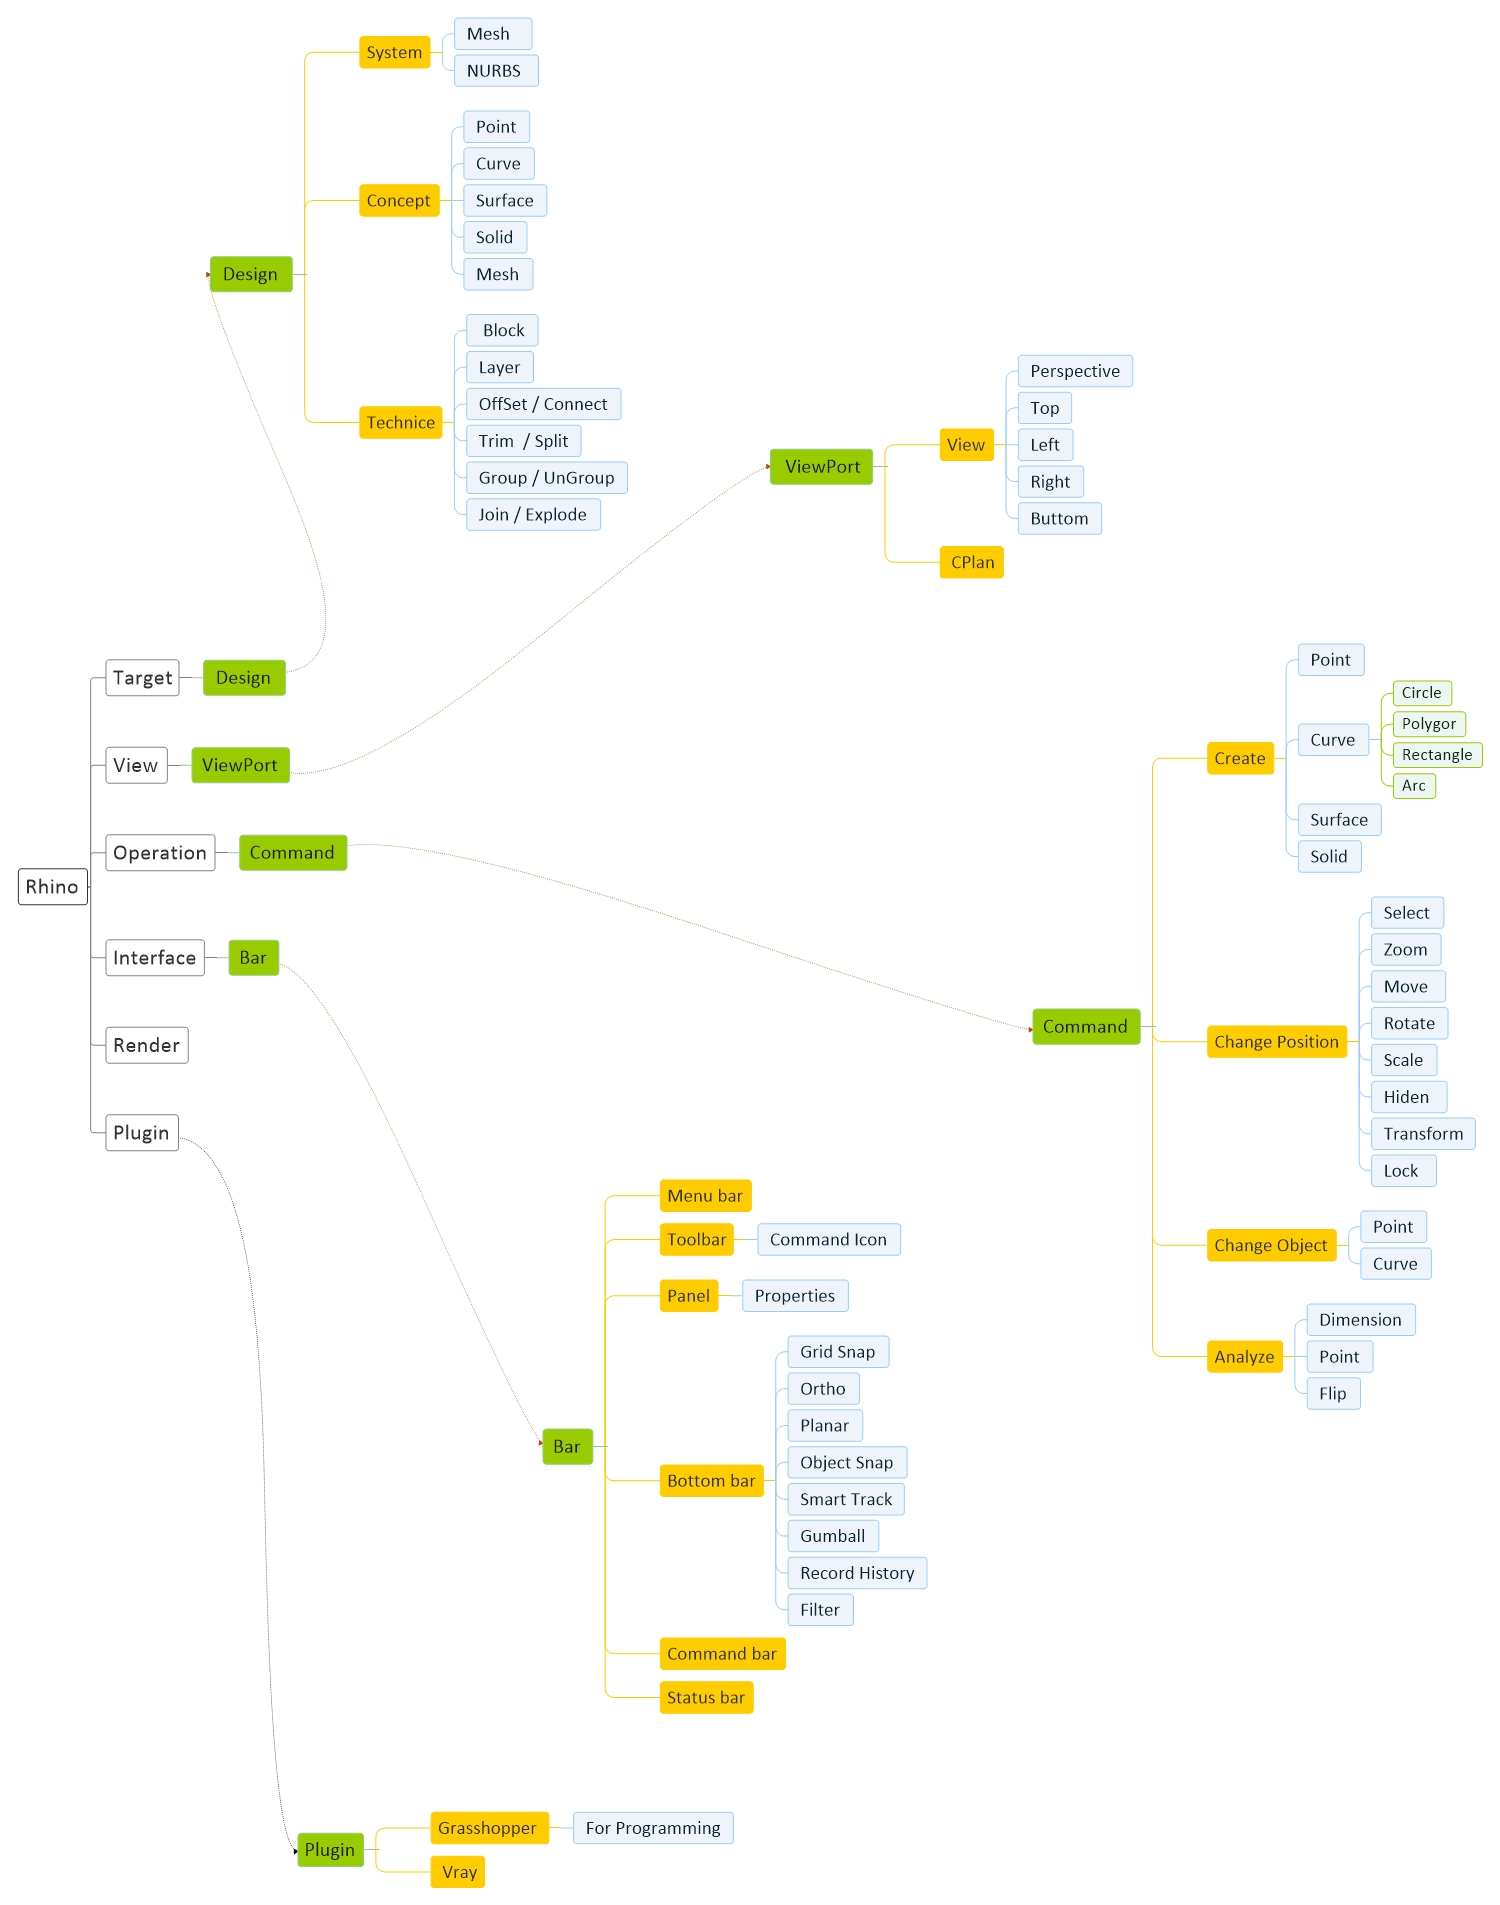
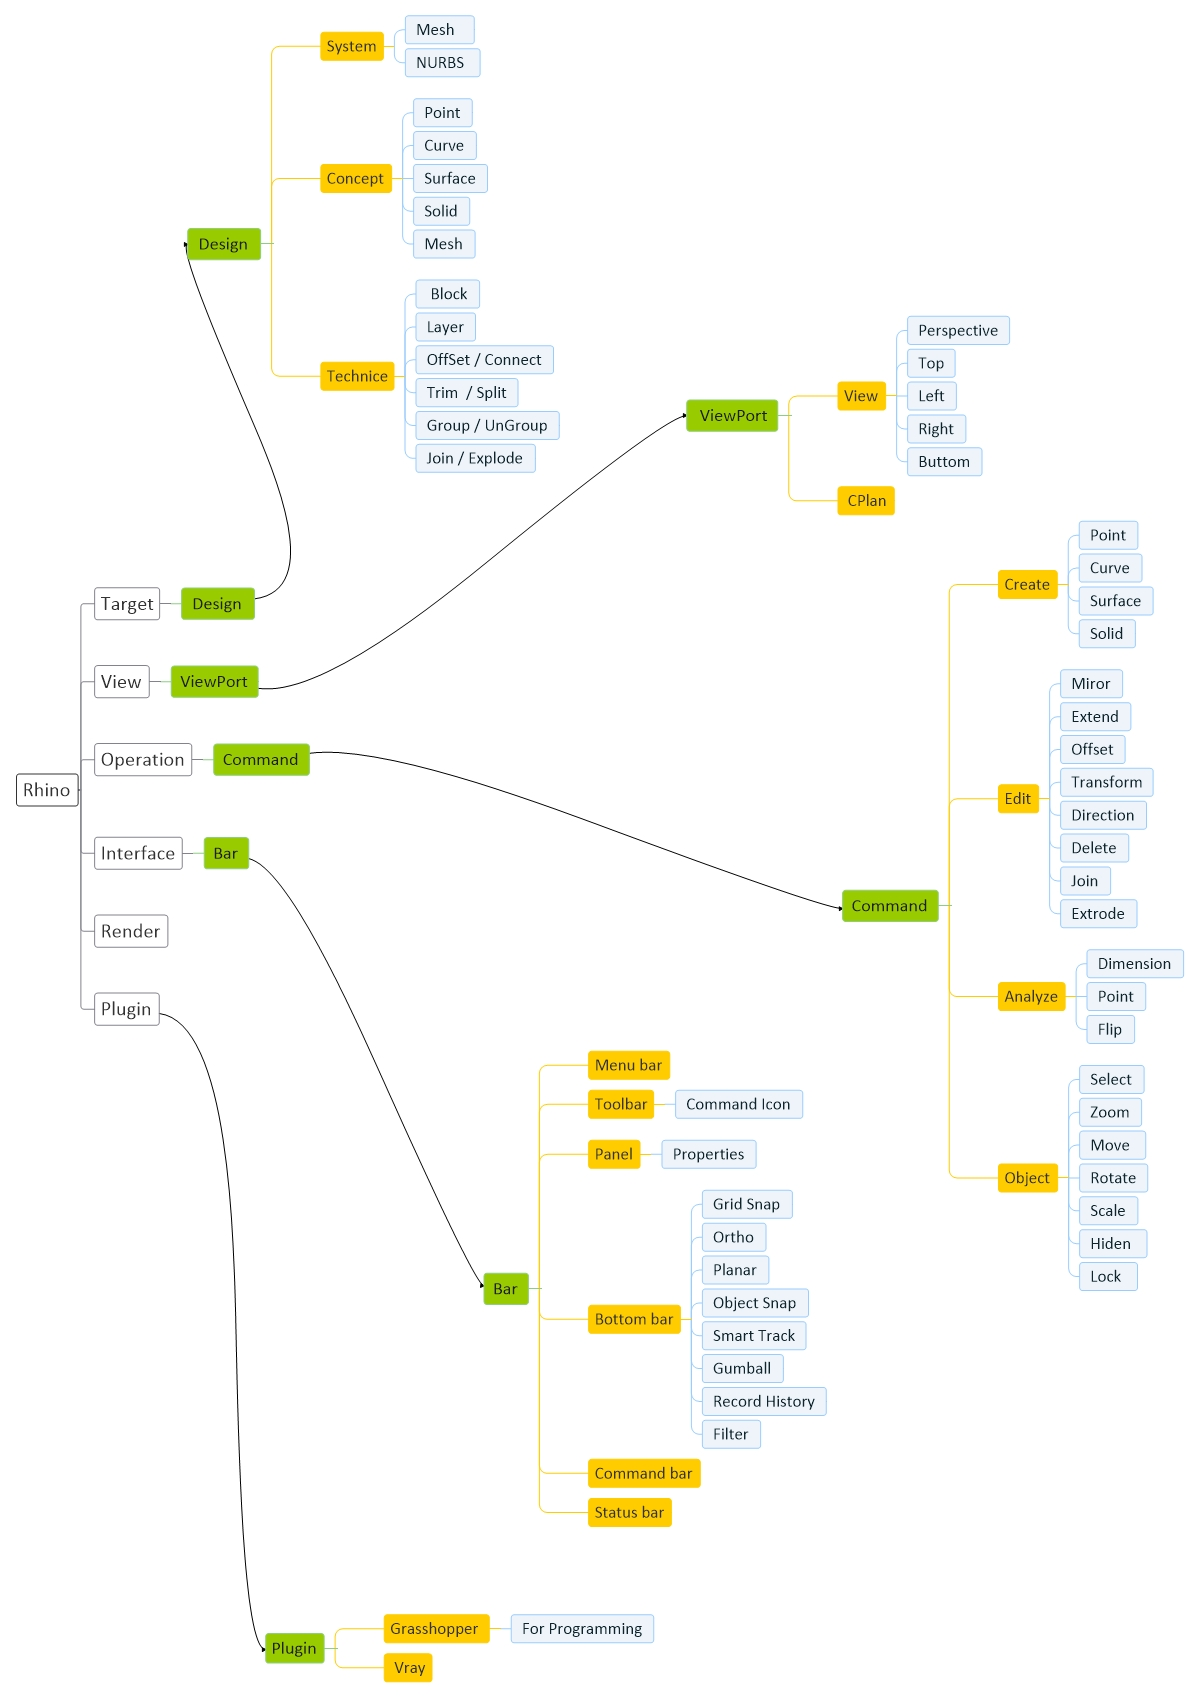
Add files via upload

diff --git a/Rhino/Rhino-Command-ChangeObject.md b/Rhino/Rhino-Command-ChangeObject.md
@@ -7,7 +7,7 @@
 </style>
 
 # [<span style="color:black;">Rhino Command change Object</span>](Rhino.md)
-[Basic](Rhino-Basic.md) | [Interface](Rhino-Interface.md) | [CMD(Create)](Rhino-Command-Create.md) | [CMD(Change Position)](Rhino-Command-ChangePosition.md) | [CMD(Change Object)](Rhino-Command-ChangeObject.md) | [CMD(Analyze)](Rhino-Command-Analyze.md)
+[Basic](Rhino-Basic.md) | [Interface](Rhino-Interface.md) | [Create](Rhino-Command-Create.md) | [Edit](Rhino-Command-ChangeObject.md) | [Analyze](Rhino-Command-Analyze.md) | [Object](Rhino-Command-ChangePosition.md)
 <div class="md1"></div>
 
 
@@ -19,7 +19,13 @@
 <tr align="center"><td>InsertKink</td><td>Insert kink</td><td><a href="http://docs.mcneel.com/rhino/5/help/en-us/commands/insertkink.htm" target="_blank">adds kinks to a curve or surface</a></td></tr>
 </tbody></table>
 
-<div class="md2"></div>
+
+
+
+<div class="md0"></div>
+
+
+
 
 ## Curve
 <table><tbody>
@@ -28,9 +34,17 @@
 <tr align="center"><td>FilletCorners</td><td>Fillet corners</td><td><a href="http://docs.mcneel.com/rhino/5/help/en-us/commands/filletcorners.htm" target="_blank">rounds the corners of polycurves and polylines</a></td></tr>
 <tr align="center"><td>Chamfer</td><td>Chamfer curves</td><td><a href="http://docs.mcneel.com/rhino/5/help/en-us/commands/chamfer.htm" target="_blank">creates a line segment between two input curves</a></td></tr>
 <tr align="center"><td>Blend</td><td>Quick curve blend</td><td><a href="http://docs.mcneel.com/rhino/5/help/en-us/commands/blend.htm"> creates a curve that blends between two curves</a></td></tr>
+<tr align="center"><td>ExtrudeCrv</td><td>Extrude closed planar curve</td><td><a href="http://docs.mcneel.com/rhino/5/help/en-us/commands/extrudecrv.htm" target="_blank">creates a surface by tracing the path of a curve in a straight line</a></td></tr>
+<tr align="center"><td>Offset</td><td>Offset curve</td><td><a href="http://docs.mcneel.com/rhino/5/help/en-us/commands/offset.htm" target="_blank">copies a curve so that all locations on the copied curve are a specified distance from the original curve</a></td></tr>
 </tbody></table>
 
-<div class="md2"></div>
+
+
+
+<div class="md0"></div>
+
+
+
 
 ## Extend
 <table><tbody>
@@ -40,7 +54,13 @@
 <tr align="center"><td>111</td><td>2222</td><td><a href="33333" target="_blank">444</a></td></tr>
 </tbody></table>
 
-<div class="md2"></div>
+
+
+
+<div class="md0"></div>
+
+
+
 
 ## Direction
 <table><tbody>
@@ -51,7 +71,13 @@
 <tr align="center"><td>MatchCrvDir</td><td>Match curve directions</td><td><a href="http://docs.mcneel.com/rhino/5/help/en-us/commands/matchcrvdir.htm" target="_blank">changes the direction of selected curves</a></td></tr>
 </tbody></table>
 
-<div class="md2"></div>
+
+
+
+<div class="md0"></div>
+
+
+
 
 ## Delete
 <table><tbody>
@@ -62,3 +88,43 @@
 <tr align="center"><td>SubCrv</td><td>Sub curve</td><td><a href="http://docs.mcneel.com/rhino/5/help/en-us/commands/subcrv.htm" target="_blank">Shorten a curve to the new picked endpoints</a></td></tr>
 <tr align="center"><td>Trim</td><td>111</td><td><a href="1111" target="_blank">1111</a></td></tr>
 </tbody></table>
+
+
+
+
+<div class="md0"></div>
+
+
+
+
+## Surface 
+<table><tbody>
+<tr align="center"><td  bgcolor="D1ECCF">Command</td><td bgcolor="D1ECCF">Tooltip</td><td  bgcolor="D1ECCF">Explain</td></tr>
+<tr align="center"><td>ExtrudeSrf </td><td>Extrude surface</td><td><a href="http://docs.mcneel.com/rhino/5/help/en-us/commands/extrudesrf.htm" target="_blank">creates a solid by tracing the path of the surface edges in a straight line</a></td></tr>
+<tr align="center"><td>OffsetSrf </td><td>Offset Surface</td><td><a href="http://docs.mcneel.com/rhino/5/help/en-us/commands/offsetsrf.htm" target="_blank">copies a surface or polysurface so that locations</a></td></tr>
+</tbody></table>
+
+
+
+<div class="md0"></div>
+
+
+
+
+## Solid
+<table><tbody>
+<tr align="center"><td  bgcolor="D1ECCF">Command</td><td bgcolor="D1ECCF">Tooltip</td><td  bgcolor="D1ECCF">Explain</td></tr>
+<tr align="center"><td>ExtrudeCrv</td><td>Extrude closed planar curve</td><td><a href="http://docs.mcneel.com/rhino/5/help/en-us/commands/extrudecrv.htm" target="_blank">creates a surface by tracing the path of a curve in a straight line</a></td></tr>
+<tr align="center"><td>BooleanDifference</td><td>Boolean difference</td><td><a href="http://docs.mcneel.com/rhino/5/help/en-us/commands/booleandifference.htm" target="_blank">trims the shared areas of selected polysurfaces</a></td></tr>
+<tr align="center"><td>BooleanSplit</td><td>Boolean split</td><td><a href="http://docs.mcneel.com/rhino/5/help/en-us/commands/booleansplit.htm" target="_blank">splits shared areas of selected polysurfaces or surfaces</a></td></tr>
+<tr align="center"><td>ChamferEdge</td><td>Chamfer edges</td><td><a href="http://docs.mcneel.com/rhino/5/help/en-us/commands/chamferedge.htm" target="_blank">creates a ruled surface between selected polysurface edges with varying chamfer distances</a></td></tr>
+</tbody></table>
+
+
+
+
+<div class="md0"></div>
+
+
+
+

diff --git a/Rhino/Rhino-Command-ChangePosition.md b/Rhino/Rhino-Command-ChangePosition.md
@@ -7,27 +7,31 @@
 </style> 
 
 # [<span style="color:black;">Rhino Command Change Position</span>](Rhino.md)
-[Basic](Rhino-Basic.md) | [Interface](Rhino-Interface.md) | [CMD(Create)](Rhino-Command-Create.md) | [CMD(Change Position)](Rhino-Command-ChangePosition.md) | [CMD(Change Object)](Rhino-Command-ChangeObject.md) | [CMD(Analyze)](Rhino-Command-Analyze.md)
+[Basic](Rhino-Basic.md) | [Interface](Rhino-Interface.md) | [Create](Rhino-Command-Create.md) | [Edit](Rhino-Command-ChangeObject.md) | [Analyze](Rhino-Command-Analyze.md) | [Object](Rhino-Command-ChangePosition.md)
 <div class="md1"></div>
 
 
 
 
-## Select
+## Genaral
 <table><tbody>
 <tr align="center"><td  bgcolor="D1ECCF">Command</td><td bgcolor="D1ECCF">Tooltip</td><td  bgcolor="D1ECCF">Explain</td></tr>
-<tr align="center"><td>1</td><td>2</td><td>3</td></tr>
+<tr align="center"><td>Select</td><td>---</td><td><a href="---" target="_blank">---</a></td></tr>
+<tr align="center"><td>Zoom</td><td>---</td><td><a href="---" target="_blank">---</a></td></tr>
+<tr align="center"><td>Move</td><td>Move</td><td><a href="http://docs.mcneel.com/rhino/5/help/en-us/commands/move.htm" target="_blank">control mouse operation for selecting and dragging</a></td></tr>
+<tr align="center"><td>Rotate</td><td>Rotate</td><td><a href="http://docs.mcneel.com/rhino/5/help/en-us/commands/rotate.htm" target="_blank">rotates objects around an axis perpendicular to the current construction plane</a></td></tr>
+<tr align="center"><td>Scale</td><td>Scale</td><td><a href="http://docs.mcneel.com/rhino/5/help/en-us/commands/scale.htm" target="_blank">changes the size of selected objects</a></td></tr>
+<tr align="center"><td>Group</td><td>Group objects</td><td><a href="http://docs.mcneel.com/rhino/5/help/en-us/commands/group.htm" target="_blank">creates an single named unit from selected objects</a></td></tr>
 </tbody></table>
 
-<div class="md2"></div>
 
-### Zoome
-<table><tbody>
-<tr align="center"><td  bgcolor="D1ECCF">Command</td><td bgcolor="D1ECCF">Tooltip</td><td  bgcolor="D1ECCF">Explain</td></tr>
-<tr align="center"><td>1</td><td>2</td><td>3</td></tr>
-</tbody></table>
 
-<div class="md2"></div>
+
+<div class="md0"></div>
+
+
+
+
 
 ## Transform
 <table><tbody>
@@ -36,20 +40,45 @@
 <tr align="center"><td>Symmetry</td><td>Symmetry</td><td><a href="http://docs.mcneel.com/rhino/5/help/en-us/commands/symmetry.htm" target="_blank"> mirrors curves and surfaces</a></td></tr>
 </tbody></table>
 
-<div class="md2"></div>
 
-## CPlane
+
+
+<div class="md0"></div>
+
+
+
+
+## CPlane and SetView
 <table><tbody>
 <tr align="center"><td  bgcolor="D1ECCF">Command</td><td bgcolor="D1ECCF">Tooltip</td><td  bgcolor="D1ECCF">Explain</td></tr>
-<tr align="center"><td>CPlane</td><td>Set CPlane to Everything</td><td>[Object - Word]</td></tr>
+<tr align="center"><td>CPlane</td><td>Set CPlane origin</td><td><a href="http://docs.mcneel.com/rhino/5/help/en-us/commands/cplane.htm" target="_blank">sets the origin and orientation of the construction plane in the active viewport</a></td></tr>
+<tr align="center"><td>Place Target</td><td>Place Target</td><td>set view report on object</td></tr>
+<tr align="center"><td>4View</td><td>4 viewports</td><td><a href="http://docs.mcneel.com/rhino/5/help/en-us/commands/new_viewport_arrangements.htm#4View" target="_blank">sets up a four-viewport workspace</a></td></tr>
 </tbody></table>
 
-<div class="md2"></div>
 
-## Genaral
+
+<div class="md0"></div>
+
+
+
+
+## Transform
 <table><tbody>
 <tr align="center"><td  bgcolor="D1ECCF">Command</td><td bgcolor="D1ECCF">Tooltip</td><td  bgcolor="D1ECCF">Explain</td></tr>
-<tr align="center"><td>Move</td><td>Move</td><td><a href="http://docs.mcneel.com/rhino/5/help/en-us/commands/move.htm" target="_blank">control mouse operation for selecting and dragging</a></td></tr>
-<tr align="center"><td>Rotate</td><td>Rotate</td><td><a href="http://docs.mcneel.com/rhino/5/help/en-us/commands/rotate.htm" target="_blank">rotates objects around an axis perpendicular to the current construction plane</a></td></tr>
-<tr align="center"><td>Scale</td><td>Scale</td><td><a href="http://docs.mcneel.com/rhino/5/help/en-us/commands/scale.htm" target="_blank">changes the size of selected objects</a></td></tr>
+<tr align="center"><td>Orient</td><td>Orient objects: 2 points</td><td><a href="http://docs.mcneel.com/rhino/5/help/en-us/commands/orient.htm" target="_blank">moves or copies, rotates, and scales objects</a></td></tr>
+</tbody></table>
+
+
+
+
+<div class="md0"></div>
+
+
+
+
+## Solid
+<table><tbody>
+<tr align="center"><td  bgcolor="D1ECCF">Command</td><td bgcolor="D1ECCF">Tooltip</td><td  bgcolor="D1ECCF">Explain</td></tr>
+<tr align="center"><td>BooleanUnion</td><td>Boolean union</td><td><a href="http://docs.mcneel.com/rhino/5/help/en-us/commands/booleanunion.htm" target="_blank">trims the shared areas of selected polysurfaces </a></td></tr>
 </tbody></table>

diff --git a/Rhino/Rhino-Command-Create.md b/Rhino/Rhino-Command-Create.md
@@ -7,7 +7,7 @@
 </style>
 
 # [<span style="color:black;">Rhino Command Create</span>](Rhino.md)
-[Basic](Rhino-Basic.md) | [Interface](Rhino-Interface.md) | [CMD(Create)](Rhino-Command-Create.md) | [CMD(Change Position)](Rhino-Command-ChangePosition.md) | [CMD(Change Object)](Rhino-Command-ChangeObject.md) | [CMD(Analyze)](Rhino-Command-Analyze.md)
+[Basic](Rhino-Basic.md) | [Interface](Rhino-Interface.md) | [Create](Rhino-Command-Create.md) | [Edit](Rhino-Command-ChangeObject.md) | [Analyze](Rhino-Command-Analyze.md) | [Object](Rhino-Command-ChangePosition.md)
 <div class="md1"></div>
 
 
@@ -16,8 +16,37 @@
 ## Curve
 <table><tbody>
 <tr align="center"><td  bgcolor="D1ECCF">Command</td><td bgcolor="D1ECCF">Tooltip</td><td  bgcolor="D1ECCF">Explain</td></tr>
-<tr align="center"><td>Line</td><td>Single Line</td><td>Draw a single line segment</td></tr>
+<tr align="center"><td>Line</td><td>Line</td><td><a href="http://docs.mcneel.com/rhino/5/help/en-us/commands/line.htm" target="_blank">ابزارهایی برای کشیدن خط</a></td></tr>
 <tr align="center"><td>Curve</td><td>Control Point Curve</td><td>The Curve command draws a curve from control point locations</td></tr>
+<tr align="center"><td>Rectangle</td><td>Rectangle: Corner to Corner</td><td><a href="http://docs.mcneel.com/rhino/5/help/en-us/commands/rectangle.htm" target="_blank">کشیدن مربع</a></td></tr>
+</tbody></table>
+
+
+
+
+<div class="md0"></div>
+
+
+
+
+## Surface
+<table><tbody>
+<tr align="center"><td  bgcolor="D1ECCF">Command</td><td bgcolor="D1ECCF">Tooltip</td><td  bgcolor="D1ECCF">Explain</td></tr>
+<tr align="center"><td>Plane</td><td>Rectangular plane: Corner to corner</td><td><a href="http://docs.mcneel.com/rhino/5/help/en-us/commands/plane.htm" target="_blank"> draws a rectangular planar NURBS surface</a></td></tr>
+</tbody></table>
+
+
+
+
+<div class="md0"></div>
+
+
+
+
+## Solid
+<table><tbody>
+<tr align="center"><td  bgcolor="D1ECCF">Command</td><td bgcolor="D1ECCF">Tooltip</td><td  bgcolor="D1ECCF">Explain</td></tr>
+<tr align="center"><td>Box</td><td>Box: Corner to Corner, Height</td><td><a href="http://docs.mcneel.com/rhino/5/help/en-us/commands/box.htm" target="_blank">کشیدن حجم</a></td></tr>
 </tbody></table>
 
 

diff --git a/Rhino/Rhino-Interface.md b/Rhino/Rhino-Interface.md
@@ -7,16 +7,17 @@
 </style>
 
 # [<span style="color:black;">Rhino Interface</span>](Rhino.md)
-[Basic](Rhino-Basic.md) | [Interface](Rhino-Interface.md) | [CMD(Create)](Rhino-Command-Create.md) | [CMD(Change Position)](Rhino-Command-ChangePosition.md) | [CMD(Change Object)](Rhino-Command-ChangeObject.md) | [CMD(Analyze)](Rhino-Command-Analyze.md)
+[Basic](Rhino-Basic.md) | [Interface](Rhino-Interface.md) | [Create](Rhino-Command-Create.md) | [Edit](Rhino-Command-ChangeObject.md) | [Analyze](Rhino-Command-Analyze.md) | [Object](Rhino-Command-ChangePosition.md)
 <div class="md1"></div>
 
 
 
 
 ## Setting
+Tools > Toolbar layout
 <table><tbody>
-<tr align="center"><td rowspan="100">Modeling Aids</td><td bgcolor="D1ECCF">Option</td><td  bgcolor="D1ECCF">Explain</td></tr>
-<tr><td rowspan="1">Nudge</td><td>تنظیمات مربوط به واحدهای جابجایی</td></tr>
+<tr align="center"><td bgcolor="D1ECCF">Address</td><td bgcolor="D1ECCF">Option</td><td  bgcolor="D1ECCF">Explain</td></tr>
+<tr><td>Rhino Option >> Modeling Aids</td><td rowspan="1">Nudge</td><td>تنظیمات مربوط به واحدهای جابجایی</td></tr>
 </tbody></table>
 
 
@@ -33,7 +34,7 @@
 <tr align="center"><td>RightClick</td><td rowspan="1">Execute last command</td></tr>
 </tbody></table>
 
-<div class="md2"></div>
+<div class="md3"></div>
 
 <table><tbody>
 <tr align="center"><td rowspan="100">View</td><td bgcolor="D1ECCF">Command</td><td  bgcolor="D1ECCF">Explain</td></tr>
@@ -46,7 +47,7 @@
 <tr align="center"><td rowspan="1">Zoom</td><td>Ctrl + RightClick</td></tr>
 </tbody></table>
 
-<div class="md2"></div>
+<div class="md3"></div>
 
 <table><tbody>
 <tr align="center"><td rowspan="100">Dimension</td><td bgcolor="D1ECCF">Command</td><td  bgcolor="D1ECCF">Explain</td></tr>

diff --git a/Rhino/Rhino-Command-Analyze.md b/Rhino/Rhino-Command-Analyze.md
@@ -7,7 +7,7 @@
 </style>
 
 # [<span style="color:black;">Rhino Command Analyze</span>](Rhino.md)
-[Basic](Rhino-Basic.md) | [Interface](Rhino-Interface.md) | [CMD(Create)](Rhino-Command-Create.md) | [CMD(Change Position)](Rhino-Command-ChangePosition.md) | [CMD(Change Object)](Rhino-Command-ChangeObject.md) | [CMD(Analyze)](Rhino-Command-Analyze.md)
+[Basic](Rhino-Basic.md) | [Interface](Rhino-Interface.md) | [Create](Rhino-Command-Create.md) | [Edit](Rhino-Command-ChangeObject.md) | [Analyze](Rhino-Command-Analyze.md) | [Object](Rhino-Command-ChangePosition.md)
 <div class="md1"></div>
 
 
@@ -19,7 +19,13 @@
 <tr align="center"><td>1</td><td>2</td><td>3</td></tr>
 </tbody></table>
 
-<div class="md2"></div>
+
+
+
+<div class="md0"></div>
+
+
+
 
 ## Point
 <table><tbody>

diff --git a/Rhino/Rhino-Basic.md b/Rhino/Rhino-Basic.md
@@ -7,7 +7,7 @@
 </style>
 
 # [<span style="color:black;">Rhino Basic</span>](Rhino.md)
-[Basic](Rhino-Basic.md) | [Interface](Rhino-Interface.md) | [Create](Rhino-Command-Create.md) | [Position](Rhino-Command-ChangePosition.md) | [Object](Rhino-Command-ChangeObject.md) | [Analyze](Rhino-Command-Analyze.md)
+[Basic](Rhino-Basic.md) | [Interface](Rhino-Interface.md) | [Create](Rhino-Command-Create.md) | [Edit](Rhino-Command-ChangeObject.md) | [Analyze](Rhino-Command-Analyze.md) | [Object](Rhino-Command-ChangePosition.md)
 <div class="md1"></div>
 
 
@@ -23,7 +23,7 @@
 
 
 
-## Design
+## Concept
 <table><tbody>
 <tr><td rowspan="1">Point</td><td> ----- </td></tr>
 <tr><td rowspan="1">Curve</td><td> ----- </td></tr>

diff --git a/Rhino/Rhino.md b/Rhino/Rhino.md
@@ -32,19 +32,21 @@
 
 <div class="md3"></div>
 
-[Change Position](Rhino-Command-ChangePosition.md)
+[Edit](Rhino-Command-ChangeObject.md)
 
 
-
-<div class="md3"></div>
-
-[Change Object](Rhino-Command-ChangeObject.md)
 
 
 
 <div class="md3"></div>
 
 [Analyze](Rhino-Command-Analyze.md)
+
+
+
+<div class="md3"></div>
+
+[Object](Rhino-Command-ChangePosition.md)
 
 
 
